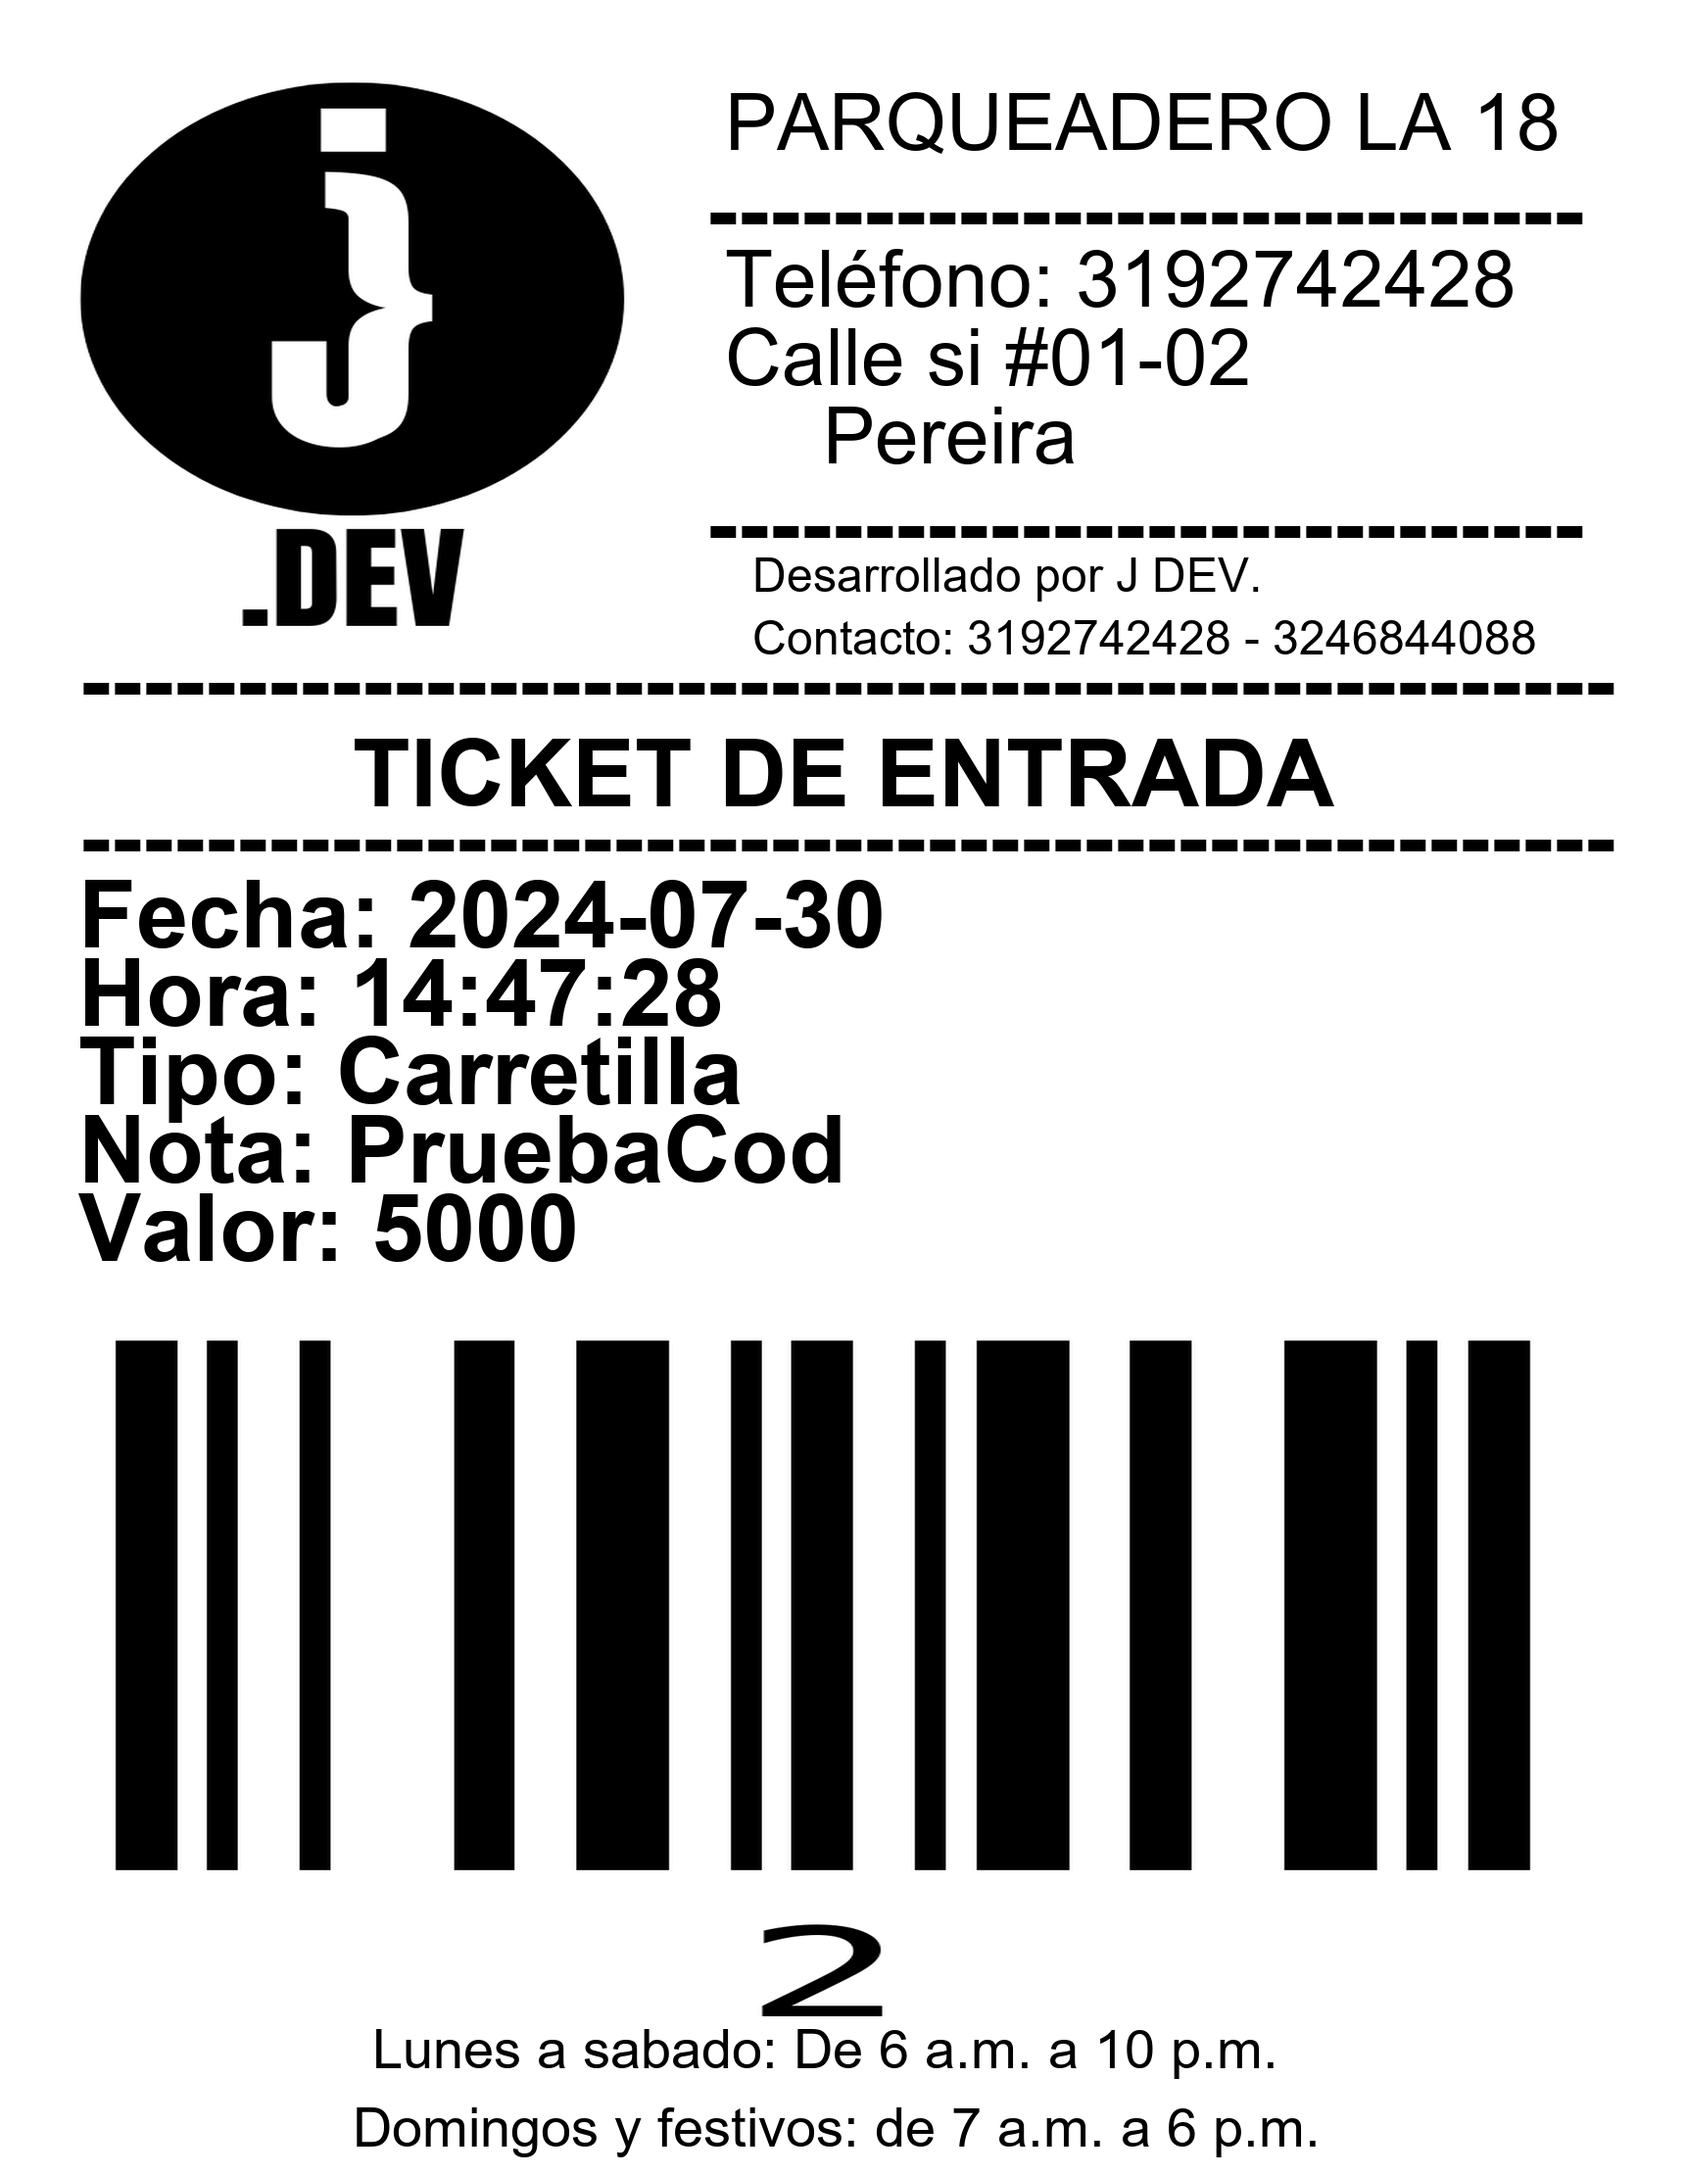
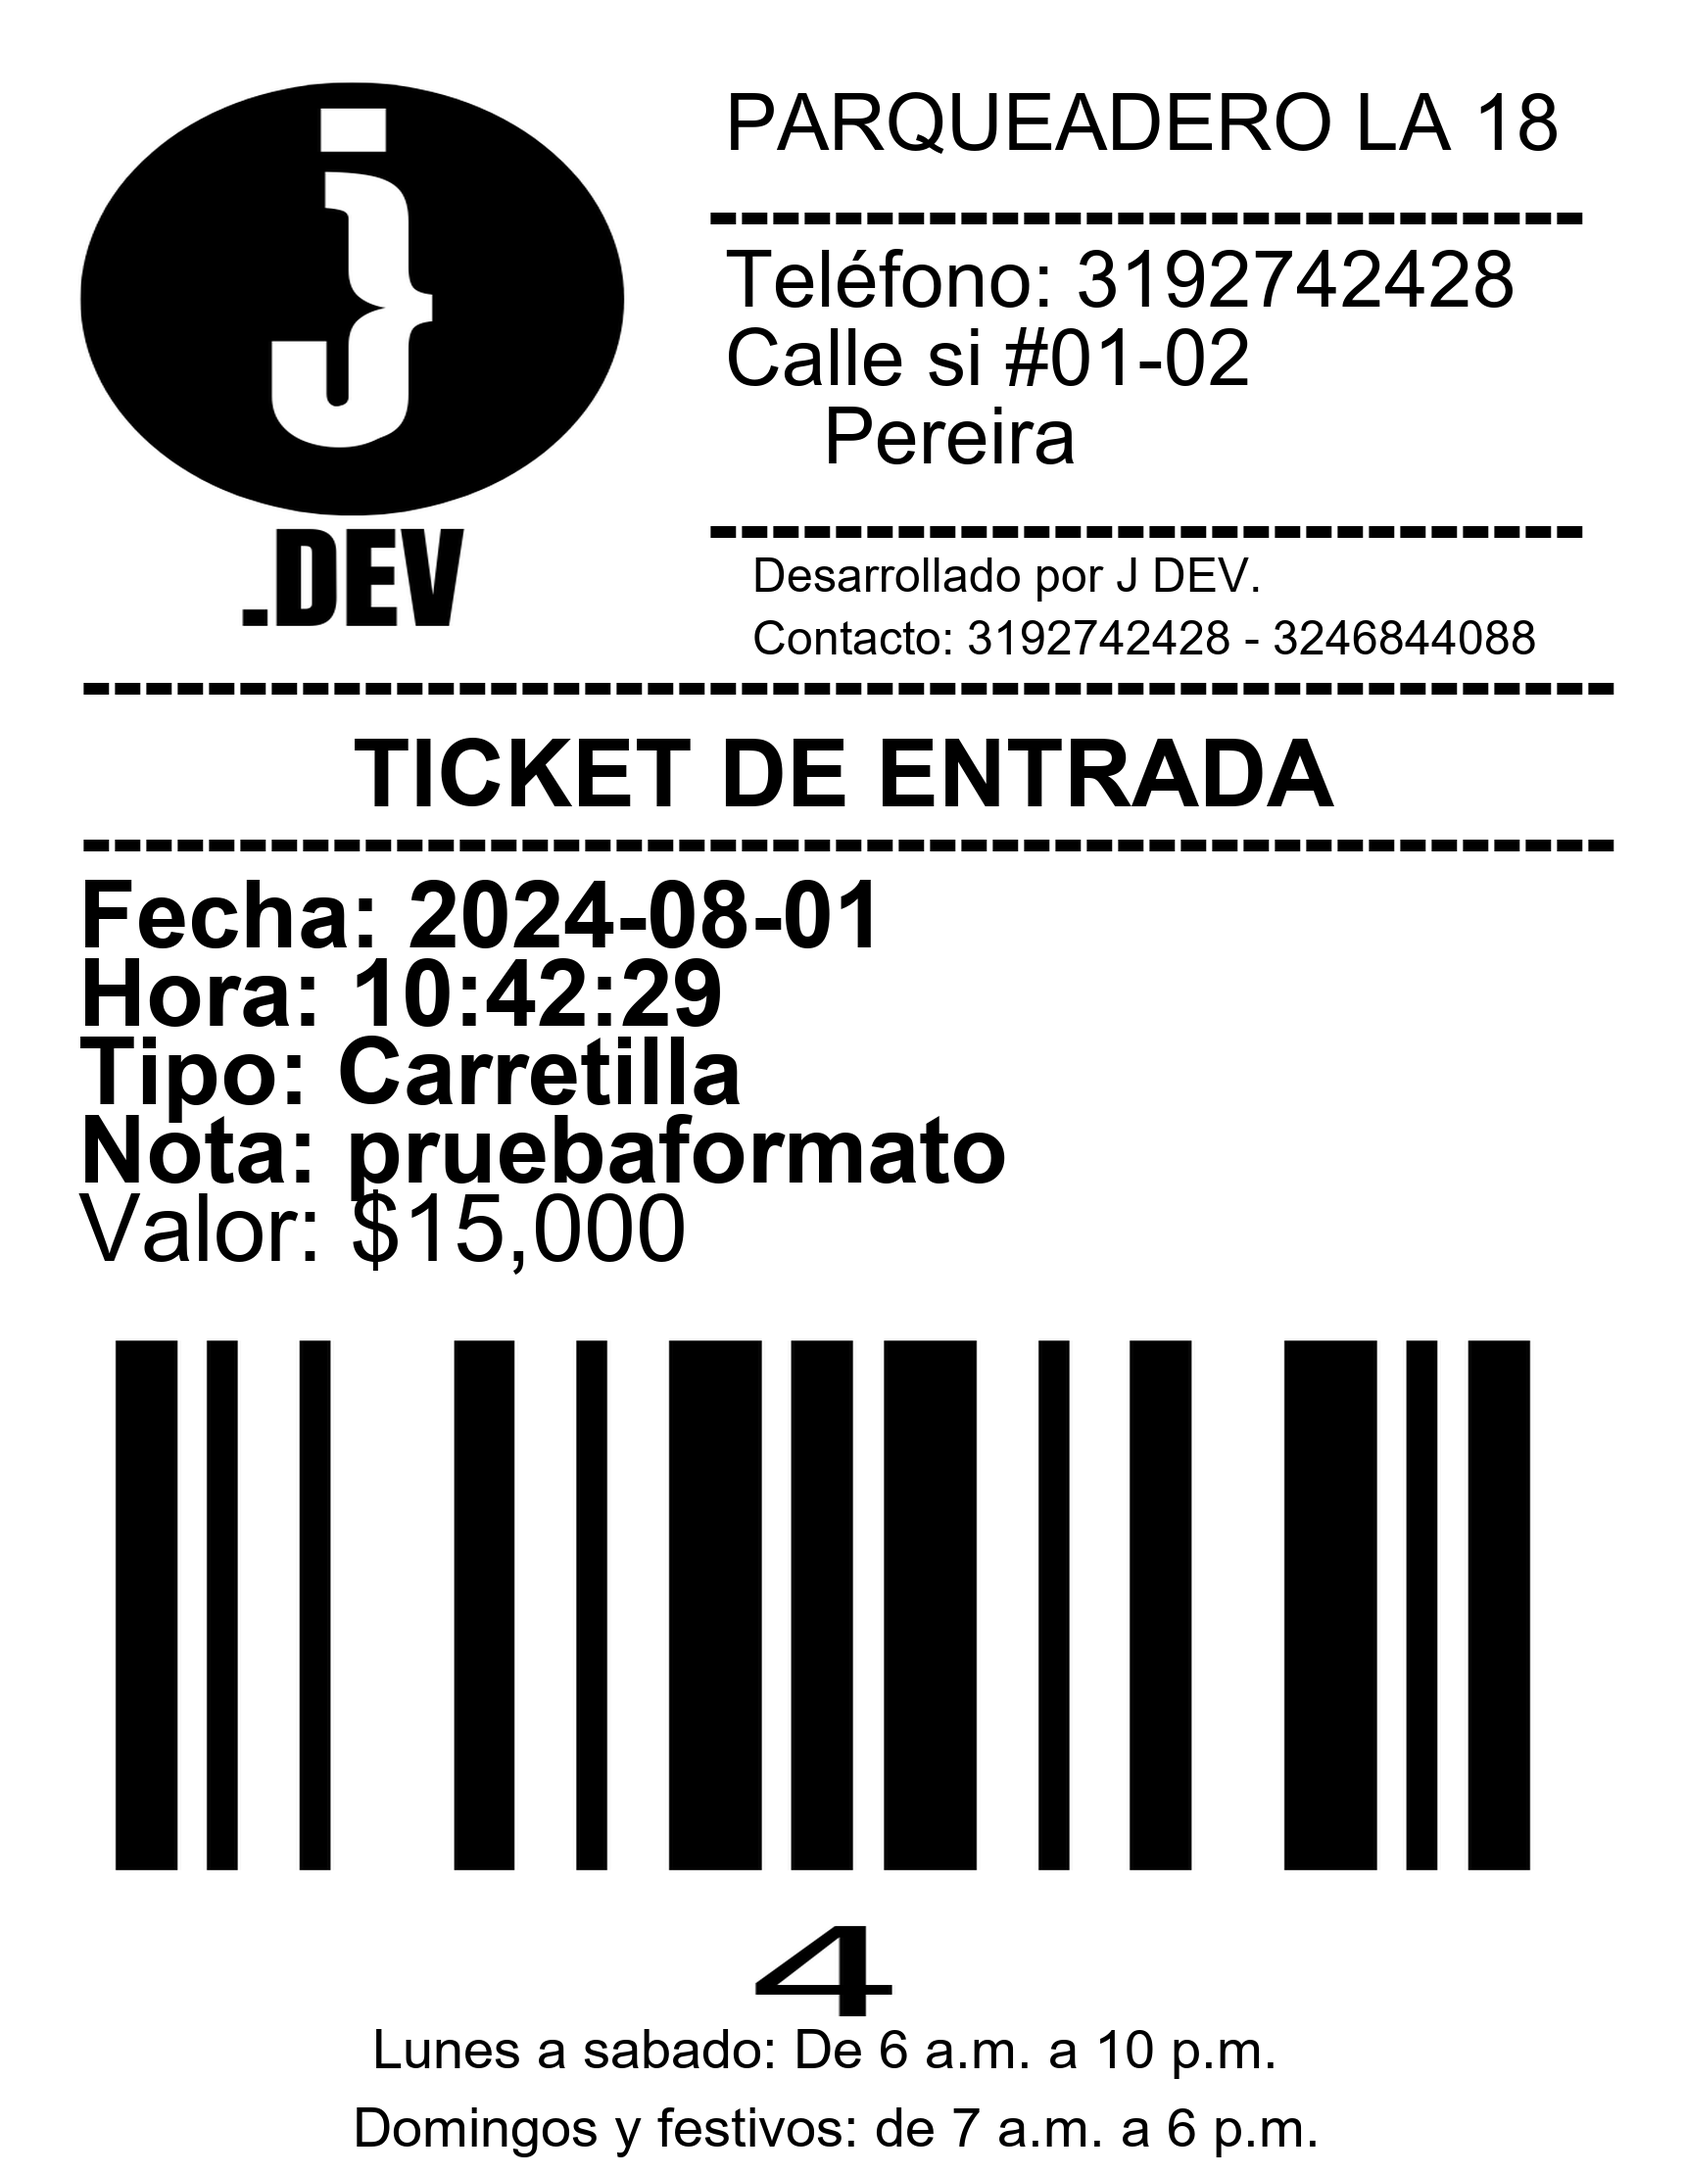
Se arrgló el formato de dinero en los ticktes

diff --git a/TicketReporte.py b/TicketReporte.py
@@ -57,19 +57,20 @@ def generarTicketReporteCompleto(codigo,Tipo,Fecha, Hora,FechaInicio, FechaFin,r
     d.text((80, 1360), f"Fecha fin: {FechaFin}", font=font_bold, fill='black')
     d.text((80, 1440), f"------------------------------------------------", font=font_bold, fill='black')
     d.text((80, 1520), f"Motos hora: {registrosMotosHora}", font=font_bold, fill='black')
-    d.text((80, 1600), f"Total: {dineroTotalMotosHora}", font=font_bold, fill='black')
+    d.text((80, 1600), f"Total: ${int(dineroTotalMotosHora):,.0f}", font=font, fill='black')
 
     d.text((80, 1760), f"Motos dia: {registrosMotosDia}", font=font_bold, fill='black')
-    d.text((80, 1840), f"Total: {dineroTotalMotosDia}", font=font_bold, fill='black')
+    d.text((80, 1840), f"Total: ${int(dineroTotalMotosDia):,.0f}", font=font, fill='black')
 
     d.text((80, 2000), f"Motos Mes: {registrosMotosMes}", font=font_bold, fill='black')
-    d.text((80, 2080), f"Total: {dineroTotalMotosMes}", font=font_bold, fill='black')
+    d.text((80, 2080), f"Total: ${int(dineroTotalMotosMes):,.0f}", font=font, fill='black')
+
 
     d.text((80, 2240), f"Fijos: {registrosFijos}", font=font_bold, fill='black')
-    d.text((80, 2320), f"Total: {dineroTotalFijos}", font=font_bold, fill='black')
+    d.text((80, 2320), f"Total: ${int(dineroTotalFijos):,.0f}", font=font, fill='black')
 
     d.text((80, 2480), f"Registros: {int(registrosMotosHora)+int(registrosMotosDia)+int(registrosMotosMes)+int(registrosFijos)} ", font=font_bold, fill='black')
-    d.text((80, 2560), f"Total: {int(dineroTotalMotosHora)+int(dineroTotalMotosDia)+int(dineroTotalMotosMes)+int(dineroTotalFijos)}", font=font_bold, fill='black')
+    d.text((80, 2560), f"Total: ${int(dineroTotalMotosHora)+int(dineroTotalMotosDia)+int(dineroTotalMotosMes)+int(dineroTotalFijos):,.0f}", font=font, fill='black')
 
     d.text((80, 2640), f"------------------------------------------------", font=font_bold, fill='black')
     # Guardar la imagen en la ruta especificada

diff --git a/TicketSalidaFijo.py b/TicketSalidaFijo.py
@@ -56,7 +56,7 @@ def generarTicketSalidaFijo(Tipo, Nota,FechaIngreso,FechaSalida,HoraIngreso,Hora
     d.text((80, 1600), f"------------------------------------------------", font=font_bold, fill='black')
     d.text((320, 1680), f"Tiempo total: {TiempoTotal}", font=font_bold, fill='black')
     d.text((80, 1760), f"------------------------------------------------", font=font_bold, fill='black')
-    d.text((320, 1840), f"Total a pagar: {TotalAPagar}", font=font_bold, fill='black')
+    d.text((320, 1840), f"Total: ${int(TotalAPagar):,.0f}", font=font, fill='black')
     d.text((80, 1920), f"------------------------------------------------", font=font_bold, fill='black')
     d.text((80, 2000), f"Tipo: {Tipo}", font=font_bold, fill='black')
     d.text((80, 2160), f"Nota: {Nota}", font=font_bold, fill='black')

diff --git a/TicketSalidaMotos.py b/TicketSalidaMotos.py
@@ -52,7 +52,7 @@ def generarTicketSalidaMoto(FechaIngreso,FechaSalida,HoraIngreso,HoraSalida,Tiem
     d.text((80, 1600), f"------------------------------------------------", font=font_bold, fill='black')
     d.text((320, 1680), f"Tiempo total: {TiempoTotal}", font=font_bold, fill='black')
     d.text((80, 1760), f"------------------------------------------------", font=font_bold, fill='black')
-    d.text((320, 1840), f"Total a pagar: {TotalAPagar}", font=font_bold, fill='black')
+    d.text((320, 1840), f"Total: ${int(TotalAPagar):,.0f}", font=font, fill='black')
     d.text((80, 1920), f"------------------------------------------------", font=font_bold, fill='black')
     # Información restante
     font = ImageFont.truetype("arial.ttf", 68)

diff --git a/TicketIngresoFijo.py b/TicketIngresoFijo.py
@@ -54,7 +54,7 @@ def generarTicketIngresoFijo(codigo, Fecha, Hora,Tipo,Nota,Valor):
     d.text((80, 960), f"Hora: {Hora}", font=font_bold, fill='black')
     d.text((80, 1040), f"Tipo: {Tipo}", font=font_bold, fill='black')
     d.text((80, 1120), f"Nota: {Nota}", font=font_bold, fill='black')
-    d.text((80, 1200), f"Valor: {Valor}", font=font_bold, fill='black')
+    d.text((80, 1200), f"Valor: ${int(Valor):,.0f}", font=font, fill='black')
     
     # Generar código de barras
     cod_barra = barcode.get_barcode_class('code128')
